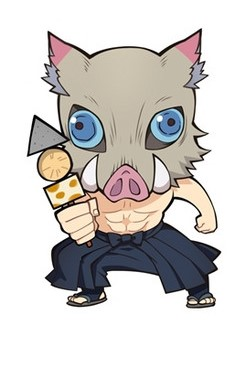
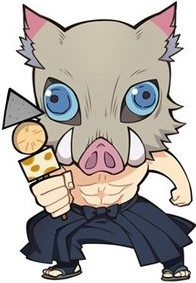
cropped photos and tried to make things fit horizontally

diff --git a/index.html b/index.html
@@ -19,43 +19,37 @@
             <h1>Demon Slayer RPG</h1>
         </div>
     </div>
-    
 <!-- Slayers to choose from  -->
-<div class="row">
-    <div id="slayerSelection">
-        </div>
-<!-- Chosen slayer & battlefield  -->
-<div class="bg-danger">
-    <h2>Your Slayer</h2>
-<!-- Chosen slayer  -->
-<div id="slayer">     
-    </div>
-        <h2>Battlefield</h2>
-<!-- Attack button  -->
-<div id="fightSection">
-    <button id="attack" class="btn btn-dark">Attack!</button>
-        </div>
-<!-- Fight status  -->
-<div id="status">
-    </div>
-<!-- Restart game  -->
-    <button id="restart" class="btn btn-dark">Restart</button>
-</div>
+    <div class="row text-white">
+        <div id="slayerSelection">
 
-<!-- Chosen & remaining enemies  -->
-<div class="bg-danger">
-    <h2>Warrior</h2>
-<!-- Chosen  -->
-<div id="opponent">
+        </div>
     </div>
-</div>
 
-    <h2>Remaining Opponents</h2>
-<!-- Remaining  -->
-<div id="opponentArea">
-    </div>
-</div>
-       
+    <div class="row">
+        <div class="battlefield text-white">
+            <h3 class="text-white">Your Chosen Warrior</h3>
+            <div id="slayer">
+
+            </div>
+            <button id="attack" class="btn btn-danger">Attack!</button>
+            <div id="status"></div>
+            <button id="restart" class="btn btn-danger">Restart</button>
+        </div>
+
+        <div class="battlefield">
+            <h3 class="text-white">Sworn Enemy</h3>
+            <div id="opponent"></div>
+        </div>
+        </div>
+
+        <div class="row">
+            <h3 class="text-white col-12">Remaining Foes</h3>
+
+            <div id="opponentArea">
+                    </div>
+        </div>
+  
 <!-- Container div  -->
 </div>
 <!-- Javascript  -->

diff --git a/assets/javascript/game.js b/assets/javascript/game.js
@@ -14,6 +14,8 @@ var opponent = null;
 
 function startGame() {
 
+	alert('Choose your warrior!')
+
 	tanjiro = {
 		id: 0,
 		name: "Tanjiro Kamado",
@@ -89,7 +91,7 @@ function startGame() {
 
 $.each(slayerSelection, function(index, slayer) {
 // New div displaying slayers at start of game
-	var newSlayerDiv = $("<div>").addClass("slayer card", "col-4").attr("id",slayer.id);
+	var newSlayerDiv = $("<div>").addClass("slayer card-group").attr("id",slayer.id);
 
 	$("<div>").addClass("card-heading").html(slayer.name).appendTo(newSlayerDiv);
 	$("<div>").addClass("card-body").append("<img src='" + slayer.img + "'>").appendTo(newSlayerDiv);
@@ -108,7 +110,7 @@ $(".slayer").on("click", function() {
 		$.each(slayerSelection, function(index, slayer) {
 			if(slayer.id != slayId) {
 				opponents.push(slayer);
-				$("#"+slayer.id).removeClass("slayer card-success").addClass("opponent card col-12").appendTo("#opponentArea");
+				$("#"+slayer.id).removeClass("slayer card").addClass("opponent card col-12").appendTo("#opponentArea");
 			} else {
 				$("#"+slayer.id).appendTo("#slayer");
 			}
@@ -158,7 +160,7 @@ console.log("Slayer: ",slayer.name,slayer.health);
 	status = "You've failed to defeat your opponent. FOR SHAME!";
 	$("#restart").show();
 		} else if(opponent.health <= 0) {	
-		status = "You have defeated " + opponent.name + ", is that all you've got? Take on another challenge!";
+		status = "You have defeated " + opponent.name + ", is that all you've got? Take on another challenger!";
 
 		$("#opponent").empty();
 		opponent = null;
